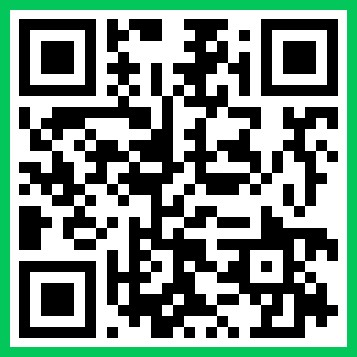
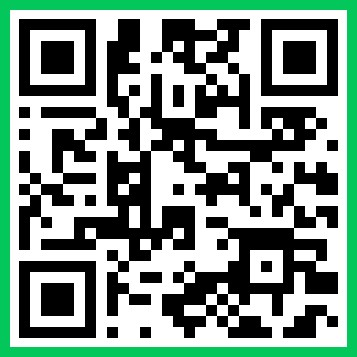
Add files via upload

Changed region(s): [[0.0308, 0.0308, 0.9552, 0.9552]]

diff --git a/goyangapp.html b/goyangapp.html
@@ -85,7 +85,7 @@
         <div class="popup-title">고양특례시 앱 설치</div>
         <div class="qr-section">
             <div class="qr-block">
-                <img src="ilsan_apple.jpg" alt="Google Play QR">
+                <img src="ilsan_and.jpg" alt="Google Play QR">
                 <div><a class="button" href="https://play.google.com/store/search?q=%EB%B6%84%EB%8B%B9%EC%84%9C%EC%9A%B8%EB%8C%80&c=apps&hl=ko&gl=KR&utm_source=apac_med" target="_blank">Google Play</a></div>
             </div>
             <div class="qr-block">
